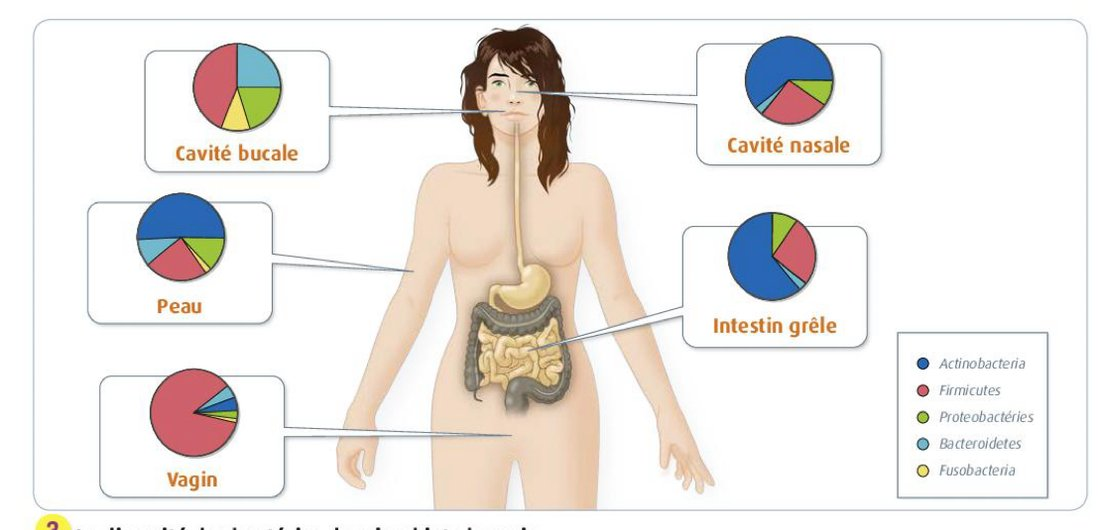
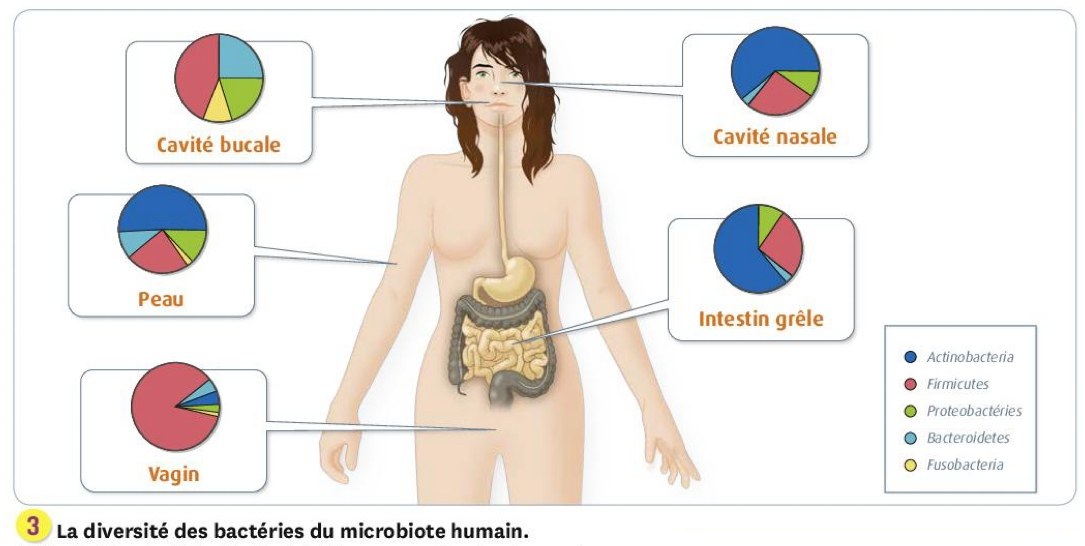
Séance 1 : titre du doc 3 visible, Q7 reformulée, Q12 en menus déroulants

Changed region(s): [[0.0, 0.0302, 1.0, 1.0], [0.5779, 0.7245, 0.6083, 0.7547], [0.0304, 0.0302, 0.0608, 0.0604]]

diff --git a/index.html b/index.html
@@ -381,8 +381,8 @@ LESSONS[1] = {
               "Pendant les premiers mois, l'alimentation (lait maternel ou non) façonne un microbiote encore très variable.",
               "À l'âge adulte, en bonne santé, la composition du microbiote varie peu."],
       why: "Le microbiote est d'abord acquis à la naissance et vient de la mère (vagin, peau, allaitement). Il se construit ensuite pendant les premiers mois de vie." },
-    { type: "mcq", obj: "o2", q: "Un bébé né par césarienne ne passe pas par le vagin de sa mère. Par quoi est-il d'abord colonisé ?",
-      options: ["Surtout par les micro-organismes de la peau de sa mère et de son entourage", "Par les micro-organismes du vagin de sa mère, comme les autres bébés", "Par aucun micro-organisme pendant plusieurs mois", "Uniquement par les micro-organismes du lait"], answer: 0,
+    { type: "mcq", obj: "o2", q: "Un bébé né par césarienne ne passe pas par le vagin de sa mère. Quels micro-organismes s'installent en premier sur lui et dans son corps ?",
+      options: ["Surtout ceux de la peau de sa mère et de son entourage", "Ceux du vagin de sa mère, comme chez les autres bébés", "Aucun, pendant plusieurs mois", "Uniquement ceux du lait"], answer: 0,
       why: "Selon le mode d'accouchement, le bébé est colonisé au contact du microbiote vaginal ou du microbiote cutané (de la peau) de sa mère.",
       mistake: "croire qu'un bébé né par césarienne reste sans micro-organismes. Il est colonisé dès la naissance, mais par d'autres micro-organismes." },
     { type: "mcq", obj: "o3", q: "Que peut-on conclure de cette expérience ?",
@@ -406,8 +406,8 @@ LESSONS[1] = {
               "Les bactéries résistantes se multiplient : elles deviennent de plus en plus nombreuses dans la population."],
       why: "C'est une sélection naturelle : le gel ne crée pas la résistance, il élimine les bactéries sensibles et laisse la place aux résistantes.",
       mistake: "croire que le gel « rend » les bactéries résistantes. La résistance existait déjà chez quelques bactéries : le gel les sélectionne." },
-    { type: "fill", obj: "o3", q: "Complète le bilan (écris les mots).",
-      text: "Le microbiote change au cours de la vie selon l'[[alimentation|nourriture]], notamment la quantité de [[fibres]] ingérées, et selon la prise répétée d'[[antibiotiques|antibiotique]] ou de gel hydroalcoolique.",
+    { type: "fill", obj: "o3", q: "Complète le bilan (choisis le bon mot dans chaque menu).",
+      text: "Le microbiote change au cours de la vie selon [[l'alimentation||la taille;le groupe sanguin;la couleur des yeux]], notamment la quantité de [[fibres||sel;vitamines;eau]] ingérées, et selon la prise répétée [[d'antibiotiques||de vaccins;de vitamines;d'anti-douleurs]] ou de gel hydroalcoolique.",
       why: "Ces facteurs modifient la composition et la diversité du microbiote." }
   ],
   keyIdeas: [
